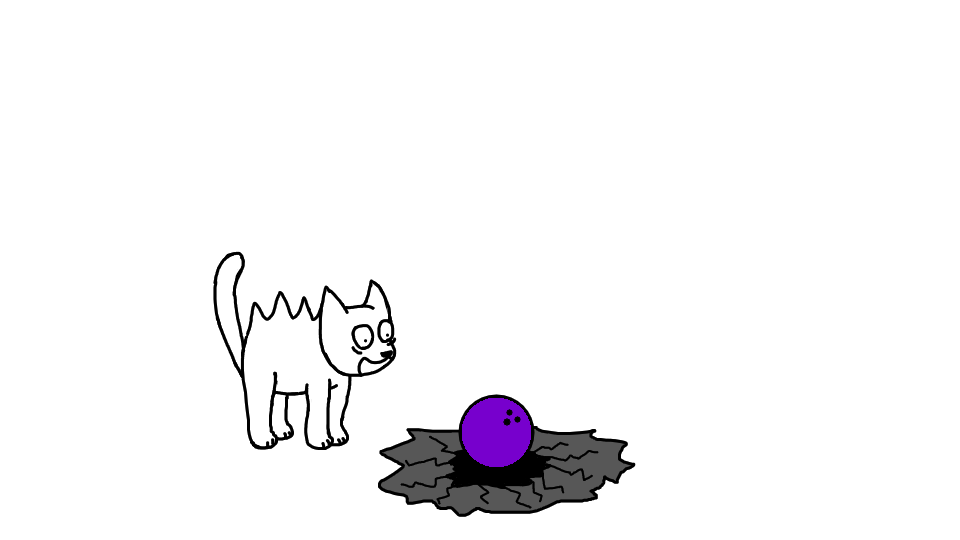
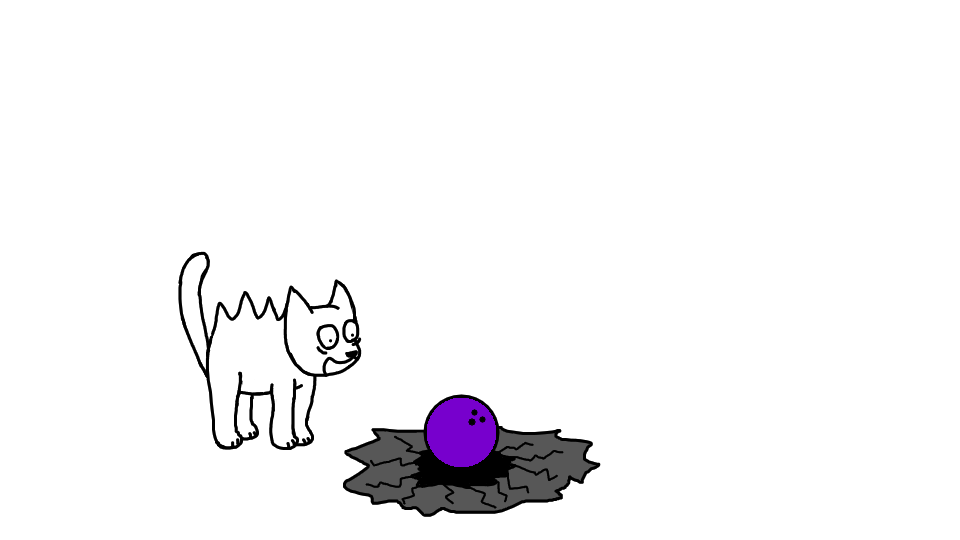
Adjusted end screen

Changed region(s): [[0.1875, 0.4444, 0.6562, 0.9778]]

diff --git a/src/game.js b/src/game.js
@@ -54,8 +54,14 @@ const pinPos = [
 var menuObjList = new Array();
 const textMainStyle = new PIXI.TextStyle({
     fill: 0xFFFFFF, fontSize: 40,
-    stroke: {color:0x000000, width:6, join:"round"}
+    stroke: {color:0x000000, width:5, join:"round"}
 })
+
+const textLargeStyle = new PIXI.TextStyle({
+    fill: 0xFFFFFF, fontSize: 56,
+    stroke: {color:0x000000, width:7, join:"round"}
+})
+
 const textHintStyle = new PIXI.TextStyle({
     fill: 0xFFFFFF, fontSize: 20,
     stroke: {color:0x000000, width:2, join:"round"},
@@ -281,15 +287,14 @@ const update = (time) =>{
             ball.speed.y = 0; ball.speed.x = 0;
             ball.acceleration.y = 0; ball.acceleration.x = 0;
 
-            let frameText = new PIXI.Text({text:`Fin.`, style: textMainStyle});
+            let frameText = new PIXI.Text({text:`The End.`, style: textLargeStyle});
             let endScreen = new PIXI.Sprite(endTexture);
         
-            frameText.x = app.screen.width*0.88;
-            frameText.y = app.screen.height*0.07;
-            frameText.zIndex = 1300;
+            frameText.x = app.screen.width*0.745;
+            frameText.y = app.screen.height*0.85;
+            frameText.zIndex = 19300;
 
-            endScreen.x = app.screen.width*0.31;
-            endScreen.zIndex = 1299;
+            endScreen.zIndex = 19299;
 
             app.stage.addChild(frameText);
             app.stage.addChild(endScreen);
@@ -391,8 +396,8 @@ const main = (playerNames, roundNb, map) => {
 
     let textLoad = new PIXI.Text({
         text: "Loading....",
-        x : adjustWidth(705), y : adjustHeight(100),
-        style: textMainStyle,
+        x : adjustWidth(650), y : adjustHeight(80),
+        style: textLargeStyle,
         zIndex: 999999
     });
 

diff --git a/src/scoregame.js b/src/scoregame.js
@@ -47,9 +47,9 @@ const finalScoreShowcase = (textStyle) => {
             text: `${i+1}:  ${player[0]} | ${player[1]}pts`,
             style: textStyle
         })
-        text.x = adjustWidth(496)
+        text.x = adjustWidth(335)
         text.y = adjustHeight(20 + (i*(46)))
-        text.zIndex = 12568
+        text.zIndex = 92568
 
         app.stage.addChild(text)
     }

diff --git a/index.html b/index.html
@@ -5,7 +5,7 @@
 <body>
     <div id="container" style="color: white;">
         <p>
-            Version 0.7.8
+            Version 0.7.9
         </p>
         <pre id="result">
         </pre>
